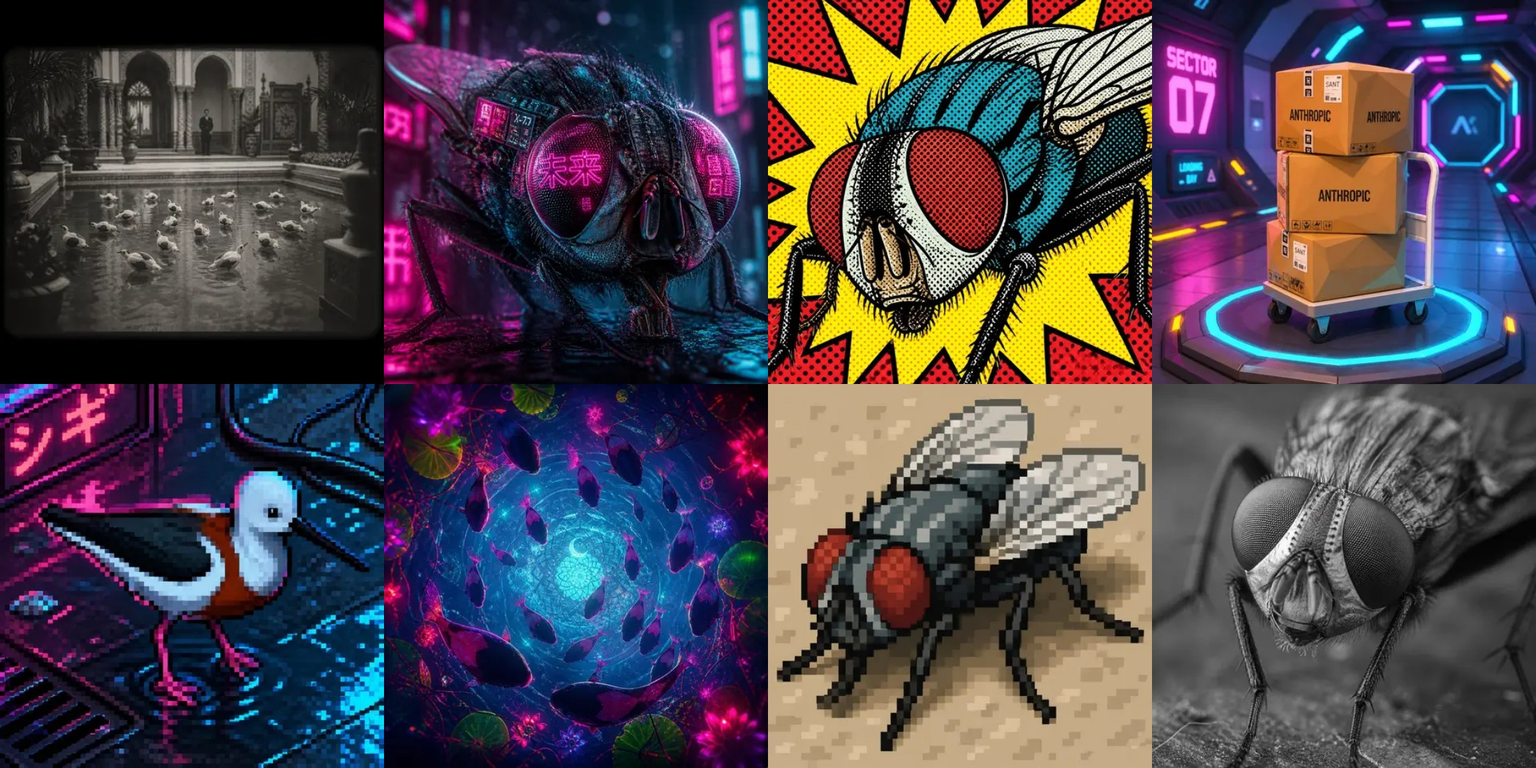
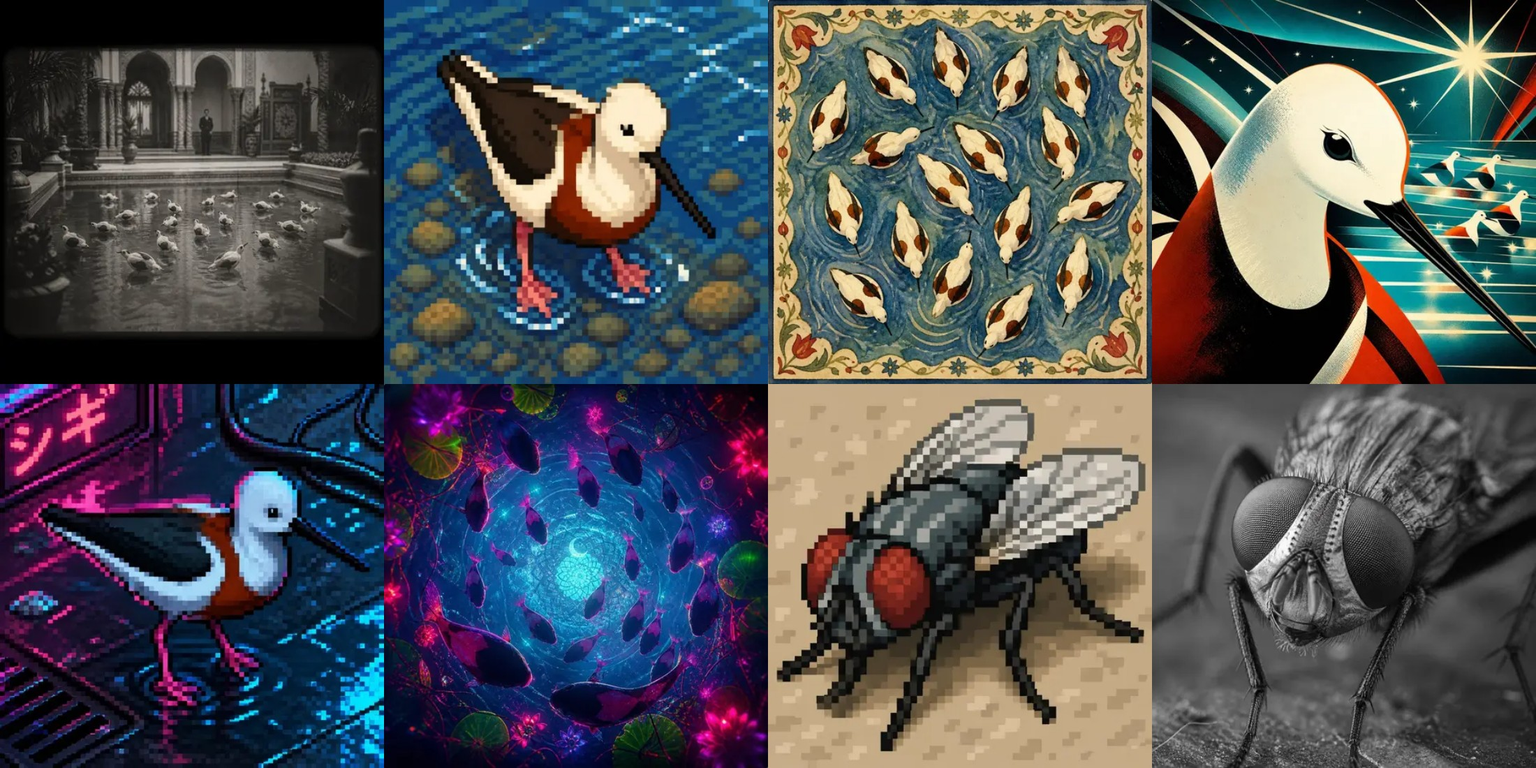
Sample images: four kept, four birds; screenshots show the birds first
The sample set is now the black-and-white fly, the pixel fly, the fish,
the neon pixel bird and four more bird pictures. One of them (a detailed
bird pattern) is 64,170 bytes at 480 px and is the named exception to
the 60 KB target. BENCH.md and docs/performance.md are re-measured in a
following commit.

Claude-Session: https://claude.ai/code/session_01RsqJnwc1KhZgxetzj61D45

diff --git a/e2e/screenshots.spec.js b/e2e/screenshots.spec.js
@@ -23,20 +23,24 @@ const PROFILES = [
   ['iphone', phone, phone.viewport, phone.viewport, 3],
 ]
 
-// The listing reduced to the first tile of each distinct picture, told apart by
-// the bytes of the 240 px thumbnail.
+// The sample pictures in the order they are shown: the four birds in the top
+// row on a desktop, then the fifth bird, the fish and the two flies.
+const ORDER = [4, 6, 7, 8, 5, 3, 2, 1].map(n => `telegram-0${n}.jpg`)
+const sha = buf => crypto.createHash('sha256').update(buf).digest('hex')
+const samples = path.join(__dirname, '..', 'testdata', 'telegram')
+const fileOf = new Map(fs.readdirSync(samples).map(f => [sha(fs.readFileSync(path.join(samples, f))), f]))
+
+// The listing reduced to one tile per sample picture, in ORDER. A tile's
+// picture is recognised by its original, which the gallery serves unchanged.
 async function distinctTiles(request) {
   const listing = await (await request.get('/api/tiles?limit=120', { headers: basic() })).json()
-  const seen = new Set()
-  const tiles = []
+  const byFile = new Map()
   for (const t of listing.tiles) {
-    const body = await (await request.get(`/img/${t.key}-240.webp?v=${listing.v}`, { headers: basic() })).body()
-    const hash = crypto.createHash('sha256').update(body).digest('hex')
-    if (seen.has(hash)) continue
-    seen.add(hash)
-    tiles.push({ ...t, styles: [t.styles.find(x => x.key === t.key)] })
+    if (byFile.size === fileOf.size) break
+    const file = fileOf.get(sha(await (await request.get(`/img/${t.key}.jpg`, { headers: basic() })).body()))
+    if (file && !byFile.has(file)) byFile.set(file, { ...t, styles: [t.styles.find(x => x.key === t.key)] })
   }
-  return { ...listing, tiles, next: null }
+  return { ...listing, tiles: ORDER.map(f => byFile.get(f)).filter(Boolean), next: null }
 }
 
 for (const [name, profile, gridView, viewerView, scale] of PROFILES) {

diff --git a/e2e/perf.spec.js b/e2e/perf.spec.js
@@ -32,7 +32,8 @@ async function warmServer(request, n = 120) {
 // the tiles in view. On top of those the browser fetches lazy images within
 // its own margin below the viewport (1250 px in Chromium); with them the
 // first visit still fits in 2 MB at 1440x900 and on a phone, and that is
-// asserted. At 1920x1080 it measured 2.08 MB (48 tiles at 480 px, 24 of them
+// asserted. At 1920x1080 it measured 1.56 MB with the current samples and 2.13 MB with an
+// earlier, heavier set (48 tiles at 480 px, 24 of them
 // in view), so there the total is reported and not asserted.
 const PROFILES = [
   ['desktop 1440x900 @1x', { viewport: { width: 1440, height: 900 }, deviceScaleFactor: 1 }, true],

diff --git a/internal/imaging/imaging_test.go b/internal/imaging/imaging_test.go
@@ -193,14 +193,14 @@ func TestStartupTwice(t *testing.T) {
 
 // The brief's target for a 480 px thumbnail of a 1024x1024 Telegram image at
 // quality 76 is 60 KB. Seven of the eight real samples meet it. The known
-// exception is telegram-04.jpg, a pop-art picture covered in halftone dots,
-// at 99,882 bytes with libvips 8.15.1; quality and effort are fixed
-// decisions, so it is named here with its own ceiling instead of loosening
-// the target for every sample.
+// exception is telegram-07.jpg, a finely detailed pattern of birds, at 64,170
+// bytes with libvips 8.15.1; quality and effort are fixed decisions, so it is
+// named here with its own ceiling instead of loosening the target for every
+// sample.
 const (
 	target480      = 60 << 10
-	exception480   = "telegram-04.jpg"
-	exceptionLimit = 100 << 10
+	exception480   = "telegram-07.jpg"
+	exceptionLimit = 65 << 10
 )
 
 func TestTelegramSamples(t *testing.T) {

diff --git a/cmd/gallery/integration_test.go b/cmd/gallery/integration_test.go
@@ -467,7 +467,7 @@ func TestIntegration(t *testing.T) {
 			if resp.Header.Get("Cache-Control") != immutable || resp.Header.Get("ETag") == "" || resp.Header.Get("X-Gallery-Placeholder") != "" {
 				t.Fatalf("%s: headers %v", target, resp.Header)
 			}
-			if size == 480 && len(body) > 100<<10 { // the largest sample (halftone pop art) is 99,882 bytes
+			if size == 480 && len(body) > 68<<10 { // the largest sample is 64,170 bytes
 				t.Errorf("%s: %d bytes", target, len(body))
 			}
 			if i == 0 {
